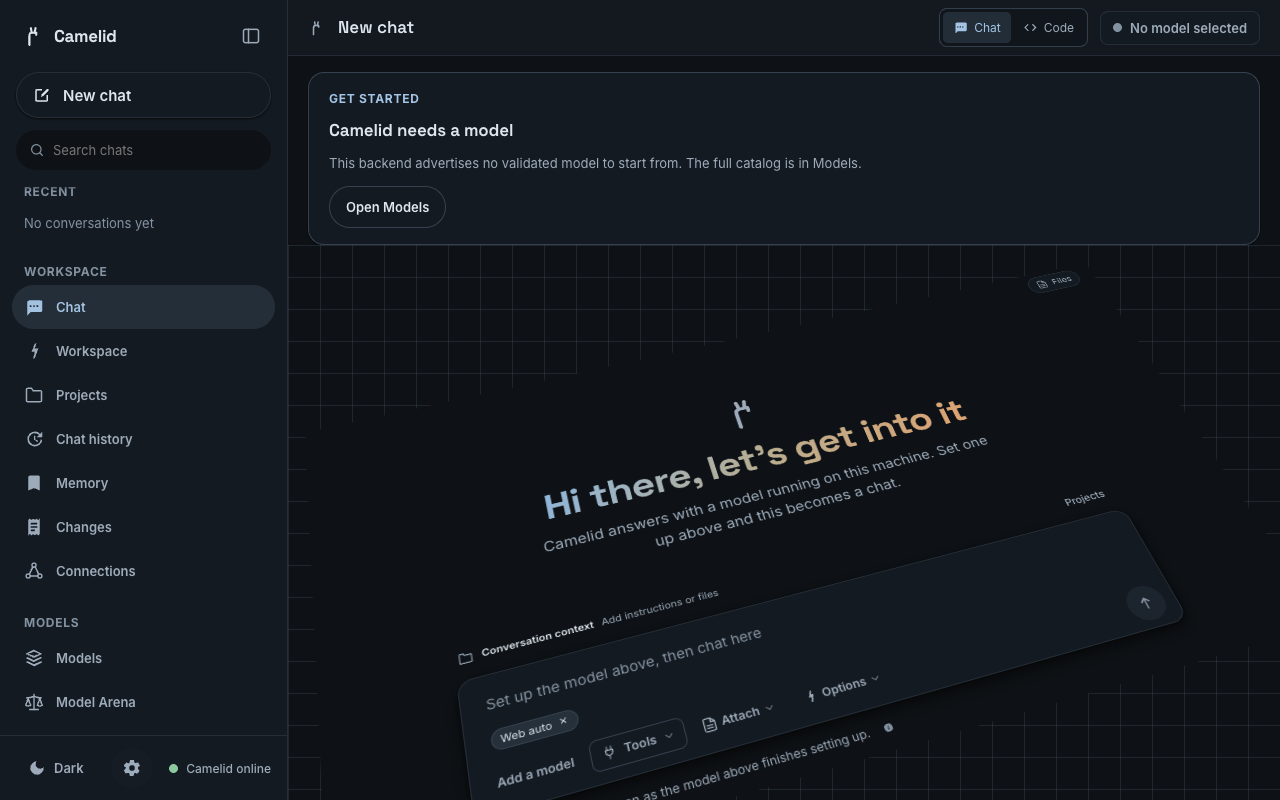
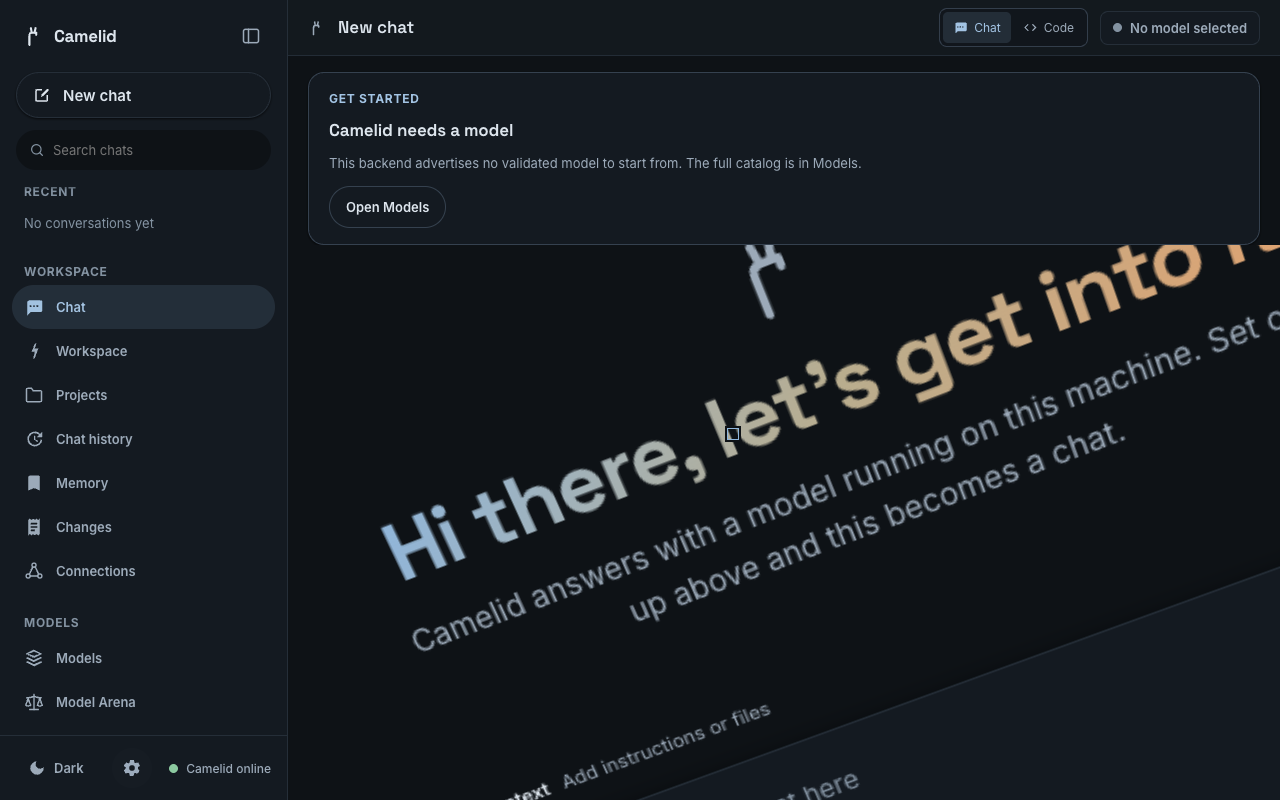
Zoom smoothly into a selected pixel before the mosaic reveal

diff --git a/frontend/src/hooks/useRetroTransition.js b/frontend/src/hooks/useRetroTransition.js
@@ -2,8 +2,30 @@ import { useCallback, useLayoutEffect, useRef } from 'react'
 
 export const RETRO_TRANSITION_KEY = 'camelid.retroTransitions'
 export const MOSAIC_STEPS = [48, 32, 24, 16, 12, 8, 4, 2]
-const DIVE_MS = 640
+const DIVE_MS = 900
 const REVEAL_MS = 560
+
+// Prefer a visible text pixel so the destination is part of the screen's
+// content. Use source-pixel centers so the final sample matches the zoom target.
+function pickPixel(view) {
+  const bounds = view.getBoundingClientRect()
+  let point = { x: bounds.width * .5, y: bounds.height * .45 }
+  for (const node of view.querySelectorAll('h2, p')) {
+    if (node.closest('[hidden]')) continue
+    const range = document.createRange()
+    range.selectNodeContents(node)
+    const rect = [...range.getClientRects()].find(rect => rect.width > 8 && rect.height > 8 && rect.top > bounds.top + 16 && rect.bottom < bounds.bottom - 16)
+    if (!rect) continue
+    const x = rect.left + rect.width * .4
+    const y = rect.top + rect.height * .55
+    if (x > bounds.left + 16 && x < bounds.right - 16) {
+      point = { x: x - bounds.left, y: y - bounds.top }
+      break
+    }
+  }
+  const snap = (position, limit) => Math.max(4.5, Math.min(Math.floor((limit - 8) / 8) * 8 + 4.5, Math.floor(position / 8) * 8 + 4.5))
+  return { x: snap(point.x, bounds.width), y: snap(point.y, bounds.height) }
+}
 
 /** Animate only the content surface; navigation stays available to cancel it. */
 export function useRetroTransition({ tab, setTab, enabled, viewRef, stageRef, filterPrefix }) {
@@ -16,12 +38,17 @@ export function useRetroTransition({ tab, setTab, enabled, viewRef, stageRef, fi
     if (!run) return
     runRef.current = null
     clearTimeout(run.timer)
+    clearTimeout(run.pixelTimer)
     clearTimeout(run.watchdog)
     cancelAnimationFrame(run.frame)
     run.observer?.disconnect()
     run.animation?.cancel()
     run.view.style.removeProperty('visibility')
     run.view.style.removeProperty('filter')
+    run.view.style.removeProperty('transform-origin')
+    run.stage.style.removeProperty('--retro-target-x')
+    run.stage.style.removeProperty('--retro-target-y')
+    run.stage.style.removeProperty('--retro-dive-duration')
     run.view.inert = false
     delete run.stage.dataset.retroPhase
   }, [])
@@ -43,13 +70,30 @@ export function useRetroTransition({ tab, setTab, enabled, viewRef, stageRef, fi
     runRef.current = run
     stage.dataset.retroPhase = 'dive'
     view.inert = true
-    const pixelScale = 1 / Math.max(view.clientWidth, view.clientHeight, 1)
+    const pixel = pickPixel(view)
+    view.style.transformOrigin = `${pixel.x}px ${pixel.y}px`
+    stage.style.setProperty('--retro-target-x', `${pixel.x}px`)
+    stage.style.setProperty('--retro-target-y', `${pixel.y}px`)
+    stage.style.setProperty('--retro-dive-duration', `${DIVE_MS}ms`)
+    const sample = document.getElementById(`${filterPrefix}-sample`)
+    sample?.setAttribute('x', String(pixel.x - .5))
+    sample?.setAttribute('y', String(pixel.y - .5))
+    // Keep the source view unfiltered during the zoom. Finish by expanding
+    // the exact sampled pixel into the final solid-color frame.
+    const pixelScale = Math.max(2, Math.min(32, 16384 / Math.max(view.clientWidth, view.clientHeight, 1)))
     run.animation = view.animate([
-      { transform: 'perspective(1000px) rotateX(0deg) rotateZ(0deg) scale(1)', offset: 0 },
-      { transform: 'perspective(1000px) rotateX(48deg) rotateZ(-24deg) scale(.88)', offset: .26 },
-      { transform: 'perspective(1000px) rotateX(58deg) rotateZ(145deg) scale(.35)', offset: .65 },
-      { transform: `perspective(1000px) rotateX(0deg) rotateZ(360deg) scale(${pixelScale})`, offset: 1 },
+      { transform: 'scale(1) perspective(1000px) rotateX(0deg) rotateZ(0deg)', offset: 0 },
+      { transform: 'scale(1) perspective(1000px) rotateX(0deg) rotateZ(0deg)', offset: .18 },
+      { transform: 'scale(2) perspective(1000px) rotateX(-18deg) rotateZ(-24deg)', offset: .42 },
+      { transform: 'scale(10) perspective(1000px) rotateX(-32deg) rotateZ(145deg)', offset: .76 },
+      { transform: `scale(${pixelScale}) perspective(1000px) rotateX(0deg) rotateZ(360deg)`, offset: 1 },
     ], { duration: DIVE_MS, easing: 'cubic-bezier(.55, 0, .8, .45)', fill: 'forwards' })
+    run.pixelTimer = window.setTimeout(() => {
+      if (runRef.current !== run) return
+      run.animation.cancel()
+      stage.dataset.retroPhase = 'pixel'
+      view.style.filter = `url(#${filterPrefix}-pixel)`
+    }, DIVE_MS - 100)
     run.timer = window.setTimeout(() => {
       if (runRef.current !== run) return
       run.phase = 'waiting'
@@ -64,8 +108,8 @@ export function useRetroTransition({ tab, setTab, enabled, viewRef, stageRef, fi
       const destination = run.to
       cancel()
       setTab(destination)
-    }, 2500)
-  }, [cancel, enabled, setTab, stageRef, viewRef])
+    }, 3500)
+  }, [cancel, enabled, filterPrefix, setTab, stageRef, viewRef])
 
   useLayoutEffect(() => {
     const run = runRef.current

diff --git a/frontend/src/styles/retro-transition.css b/frontend/src/styles/retro-transition.css
@@ -26,5 +26,28 @@
 .settings-retro input { flex: none; width: 20px; height: 20px; accent-color: var(--color-accent); cursor: pointer; }
 @media (prefers-reduced-motion: reduce) {
   .retro-transition-stage[data-retro-phase] > .camelid-view { transform: none !important; filter: none !important; visibility: visible !important; }
+  .retro-transition-stage[data-retro-phase]::before,
   .retro-transition-stage[data-retro-phase]::after { display: none; }
 }
+
+/* The outline marks the exact tile the camera is about to enter. It sits
+   outside the filtered view, so its color never becomes the sampled pixel. */
+.retro-transition-stage[data-retro-phase='dive']::before {
+  content: '';
+  position: absolute;
+  z-index: 1;
+  pointer-events: none;
+  left: var(--retro-target-x);
+  top: var(--retro-target-y);
+  width: 12px;
+  height: 12px;
+  transform: translate(-50%, -50%);
+  border: 1px solid var(--color-accent);
+  box-shadow: 0 0 0 2px var(--color-canvas);
+  animation: retro-pixel-lock var(--retro-dive-duration) linear both;
+}
+@keyframes retro-pixel-lock {
+  0%, 22% { opacity: 1; }
+  38%, 100% { opacity: 0; }
+}
+

diff --git a/frontend/src/components/RetroTransitionFilters.jsx b/frontend/src/components/RetroTransitionFilters.jsx
@@ -8,6 +8,11 @@ export function RetroTransitionFilters({ prefix }) {
   return (
     <svg className="retro-transition-filters" width="0" height="0" aria-hidden="true" focusable="false">
       <defs>
+        <filter id={`${prefix}-pixel`} x="0" y="0" width="100%" height="100%" colorInterpolationFilters="sRGB">
+          <feFlood floodColor="white" />
+          <feComposite id={`${prefix}-sample`} in="SourceGraphic" operator="in" x="0" y="0" width="1" height="1" />
+          <feTile x="0" y="0" width="100%" height="100%" />
+        </filter>
         {MOSAIC_STEPS.map((size) => (
           <filter key={size} id={`${prefix}-${size}`} x="0" y="0" width="100%" height="100%" colorInterpolationFilters="sRGB">
             <feFlood x={size / 2} y={size / 2} width="1" height="1" />

diff --git a/frontend/README.md b/frontend/README.md
@@ -81,7 +81,7 @@ You can also edit the API base in the UI sidebar while testing.
 
 ## Retro mode transitions
 
-Settings → Appearance → **16-bit mode transitions** enables a Mode 7-inspired rotating dive to a pixel, followed by a chunky mosaic reveal when switching between Chat and Code using the header mode switch. It is off by default and saved through the app's existing browser/desktop preferences. Reduced motion skips the effect; Escape skips to the destination, and other navigation cancels the transition.
+Settings → Appearance → **16-bit mode transitions** enables a smooth Mode 7-inspired rotating zoom into a selected pixel, followed by a chunky mosaic reveal when switching between Chat and Code using the header mode switch. The zoom stays unpixelated; mosaic applies only to the destination reveal. It is off by default and saved through the app's existing browser/desktop preferences. Reduced motion skips the effect; Escape skips to the destination, and other navigation cancels the transition.
 
 With the frontend running on port 4175, `npm run smoke:retro-transitions` checks the effect with mocked API responses, including saved opt-in/out, lazy loading, rapid navigation, reduced motion, and mobile layout. It saves screenshots under `target/retro-transition/`.
 
